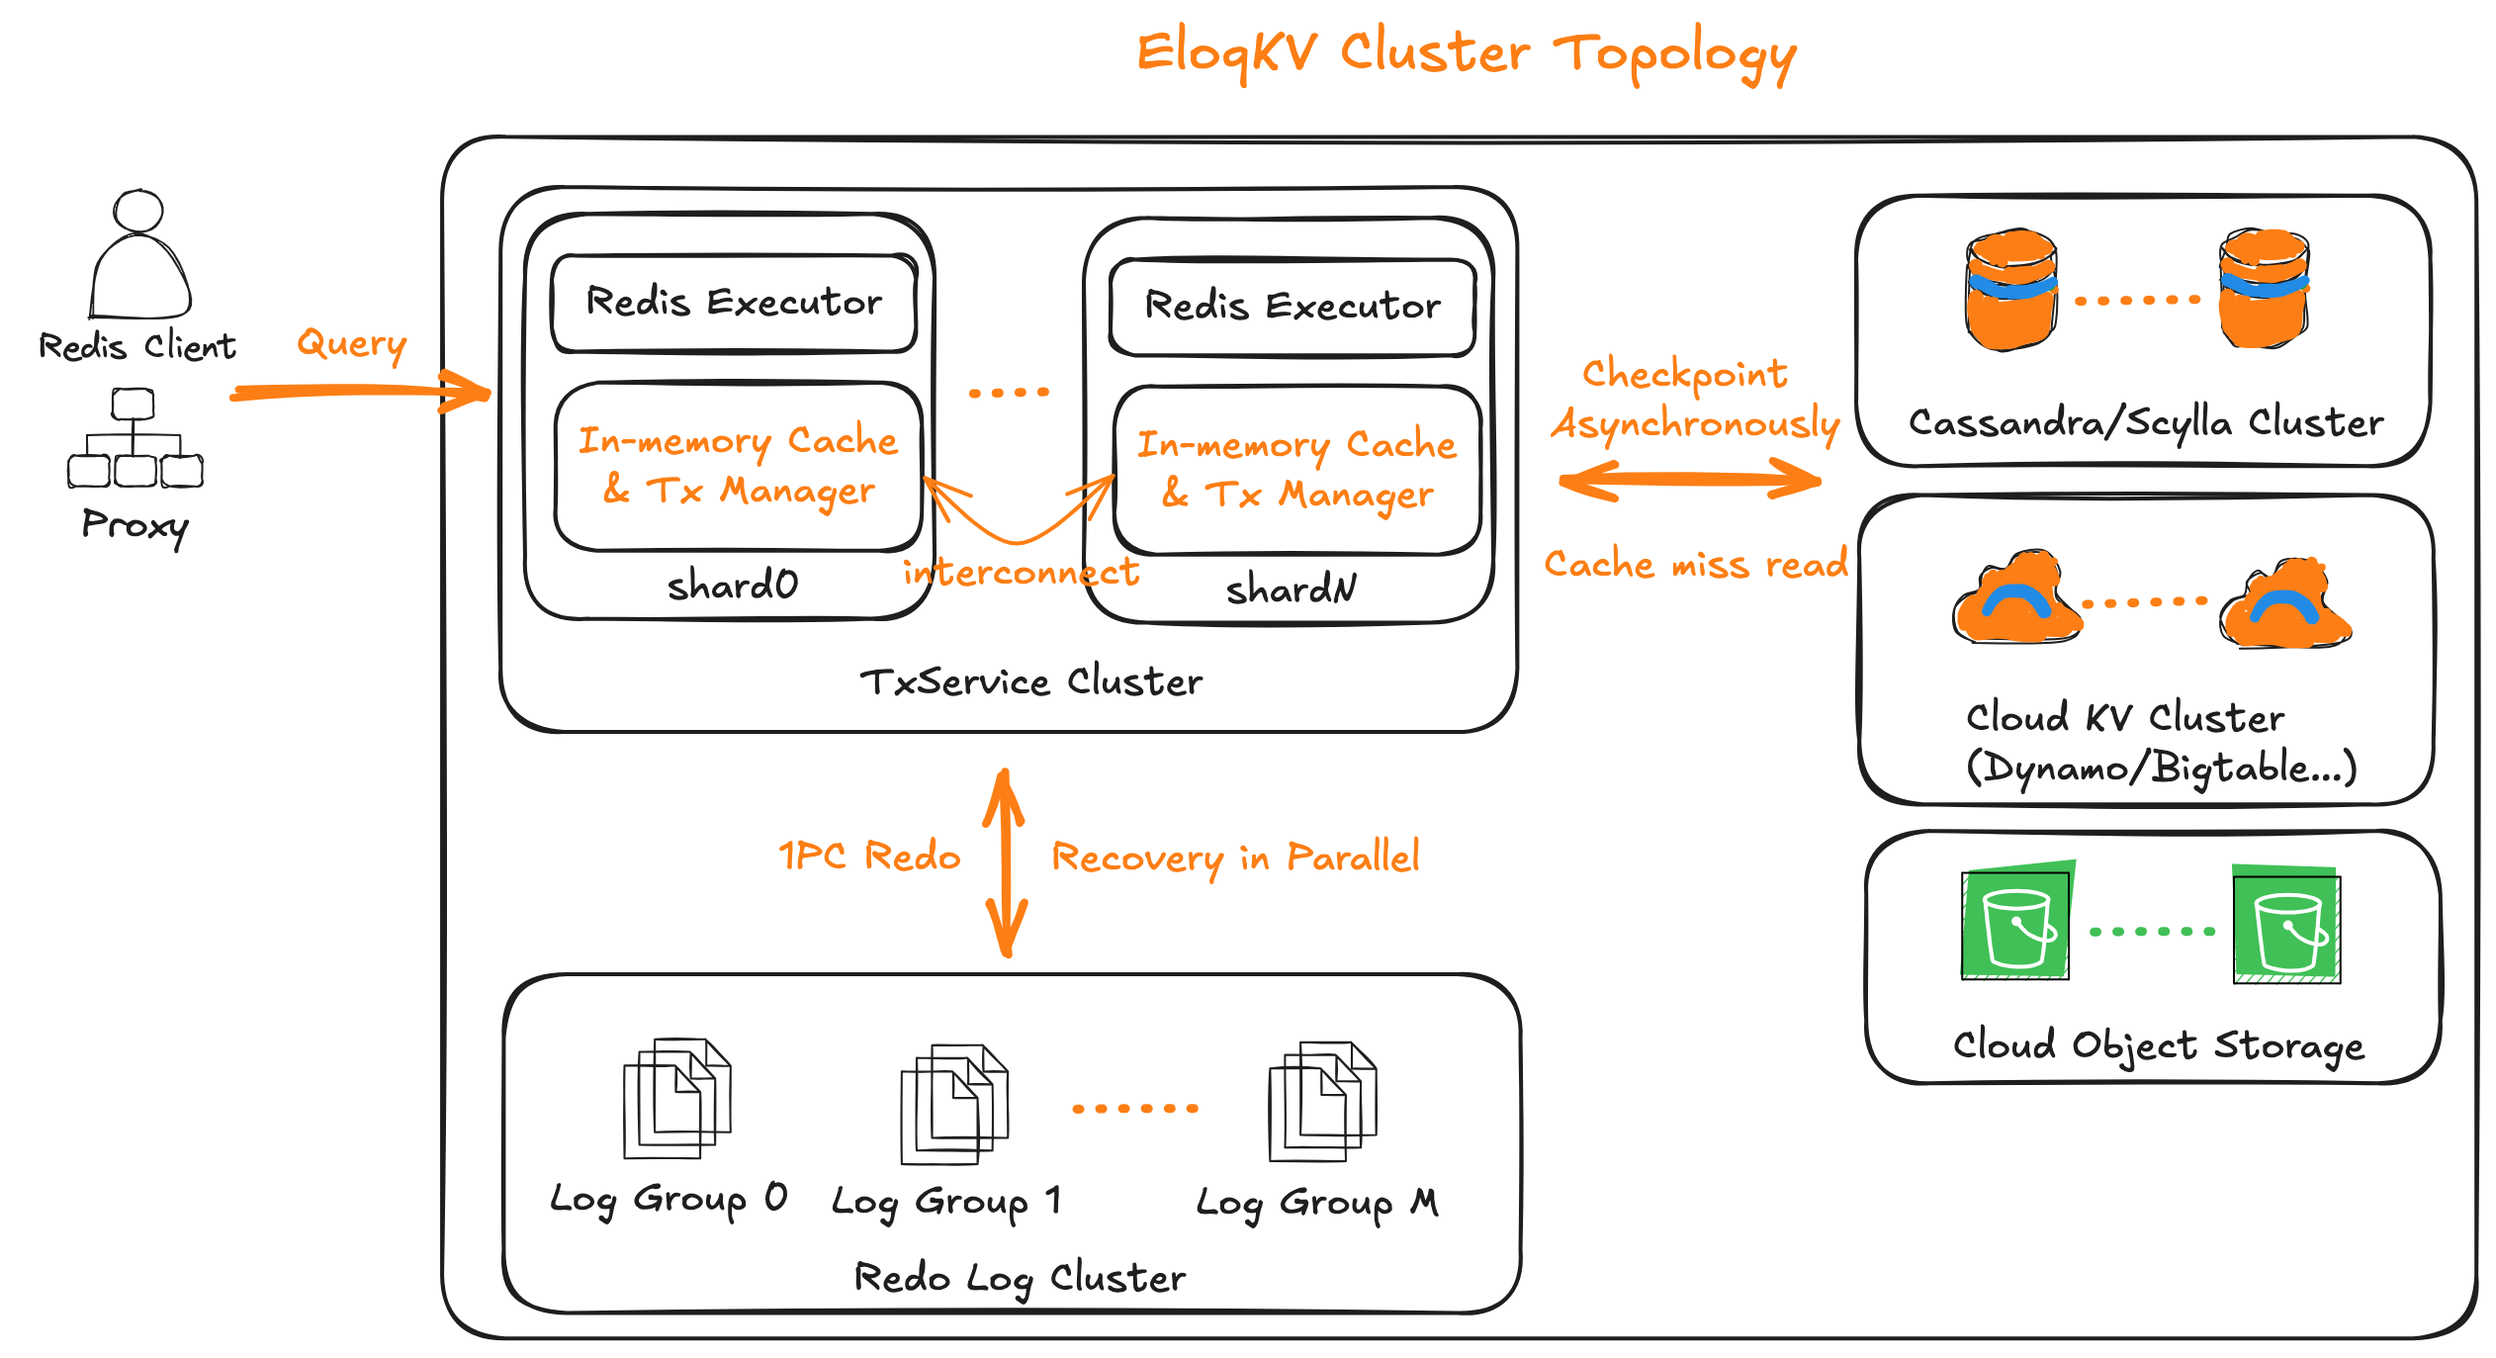
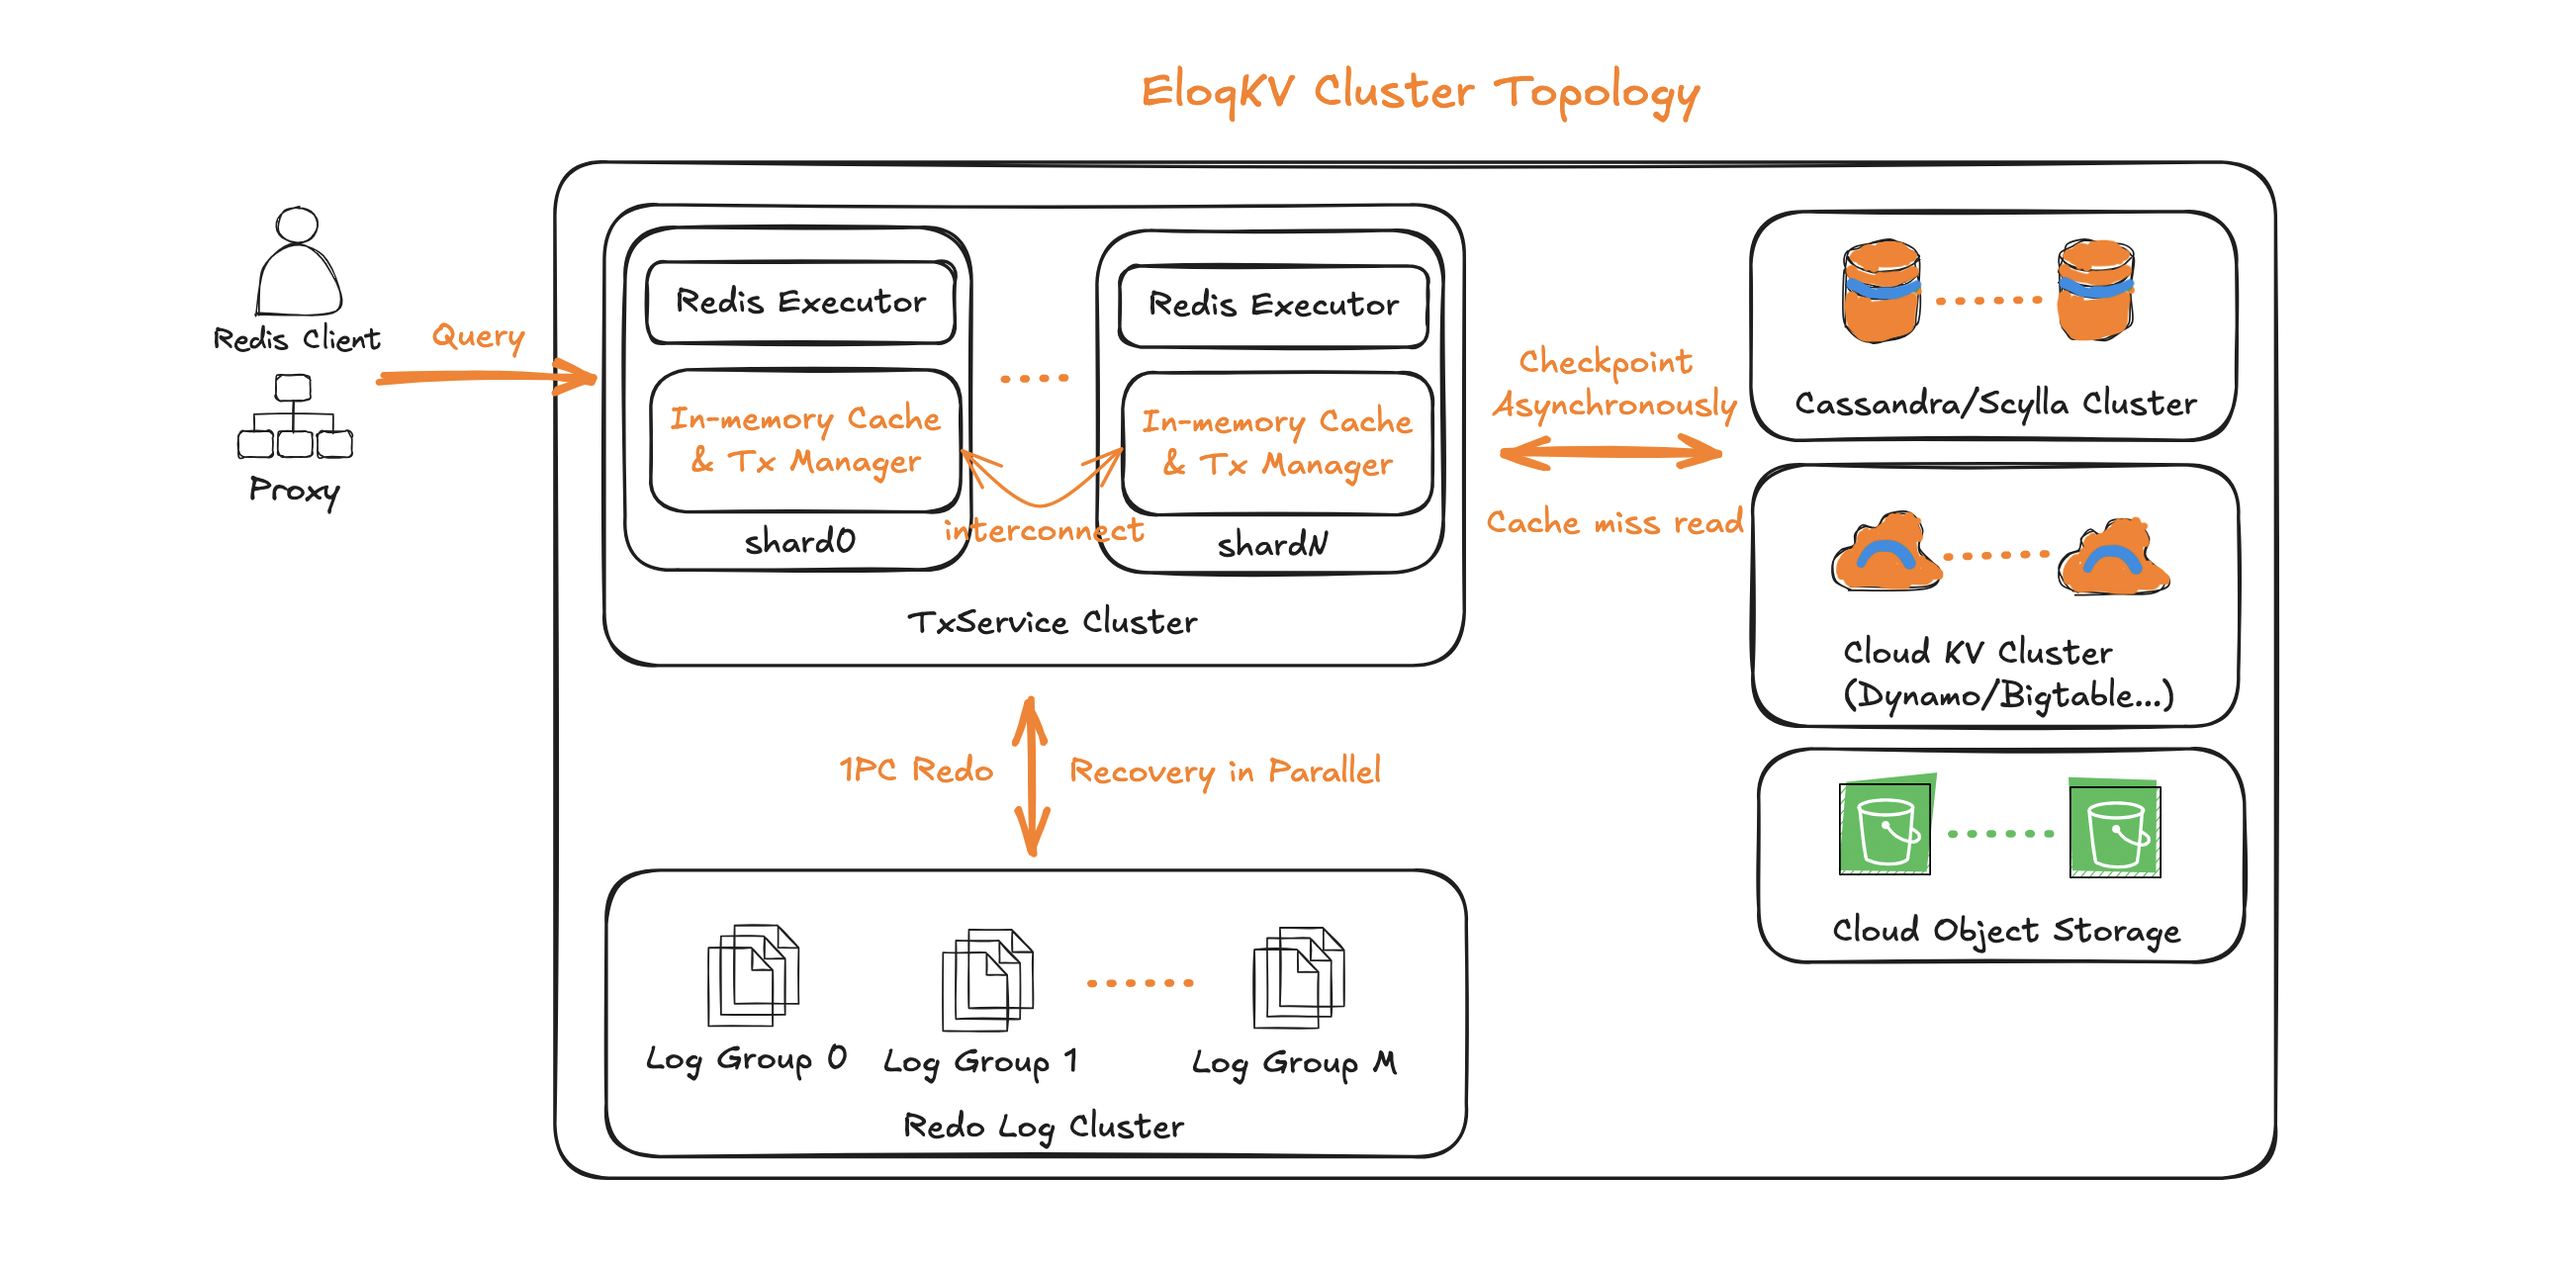
update

diff --git a/README.md b/README.md
@@ -124,7 +124,7 @@ Follow the [instruction guide](https://www.eloqdata.com/eloqkv/install-from-bina
 
 <div align="center">
 <a href='https://www.eloqdata.com'>
-<img src="images/eloqkv_architecture2.png" alt="EloqKV Arch" width=600></img>
+<img src="images/eloqkv_architecture.png" alt="EloqKV Arch" width=600></img>
 </a>
 </div>
 
@@ -146,7 +146,7 @@ In cache scenarios, EloqKV significantly outperforms Redis and achieves performa
 
 <div align="center">
 <a href='https://www.eloqdata.com'>
-<img src="images/eloqkvperf1.png" alt="EloqKV" width=500></img>
+<img src="images/eloqkvcacheperf.png" alt="EloqKV" width=500></img>
 </a>
 </div>
 
@@ -159,7 +159,7 @@ Unlike KVRocks, which lacks true transactional support, EloqKV offers **real, ro
 
 <div align="center">
 <a href='https://www.eloqdata.com'>
-<img src="images/eloqkvperf4.png" alt="EloqKV" width=500></img>
+<img src="images/eloqkvwalperf.png" alt="EloqKV" width=500></img>
 </a>
 </div>
   
